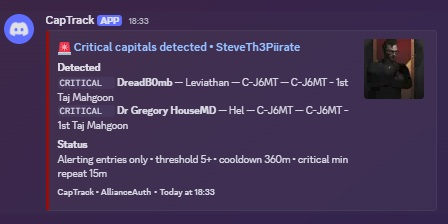
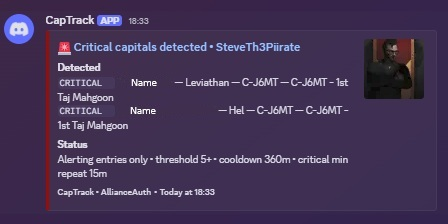
Image update

Changed region(s): [[0.25, 0.4688, 0.5, 0.5312], [0.25, 0.3438, 0.4062, 0.4062]]

diff --git a/README.md b/README.md
@@ -141,7 +141,7 @@ Only **one settings row** is expected.
 
 ### Dashboard — Overview
 
-![Dashboard Overview](images/overview.jpg)
+![Dashboard Overview](https://raw.githubusercontent.com/SteveTh3Piirate/aa-captrack/main/images/overview.jpg)
 
 Displays all tracked capital activity grouped by main character, with clear visual separation between critical, alerting, and informational states.
 
@@ -149,7 +149,7 @@ Displays all tracked capital activity grouped by main character, with clear visu
 
 ### Dashboard — Collapsed / Expanded States
 
-![Dashboard Collapsed](images/collapsed.jpg)
+![Dashboard Collapsed](https://raw.githubusercontent.com/SteveTh3Piirate/aa-captrack/main/images/collapsed.jpg)
 
 Cards can be collapsed to reduce noise. Collapse state can optionally be remembered per user.
 
@@ -157,7 +157,7 @@ Cards can be collapsed to reduce noise. Collapse state can optionally be remembe
 
 ### Dashboard — Snoozed Pilots
 
-![Dashboard Snoozed](images/snoozed.jpg)
+![Dashboard Snoozed](https://raw.githubusercontent.com/SteveTh3Piirate/aa-captrack/main/images/snoozed.jpg)
 
 Pilots can be snoozed individually to suppress alerts and notifications for a configurable duration.
 
@@ -165,7 +165,7 @@ Pilots can be snoozed individually to suppress alerts and notifications for a co
 
 ### Admin — CapTrack Settings
 
-![Admin Settings](images/admin-settings.jpg)
+![Admin Settings](https://raw.githubusercontent.com/SteveTh3Piirate/aa-captrack/main/images/admin-settings.jpg)
 
 All configuration is managed through a single settings entry in the AllianceAuth admin panel.
 
@@ -173,7 +173,7 @@ All configuration is managed through a single settings entry in the AllianceAuth
 
 ### Discord — Critical Alert Example
 
-![Discord Critical Alert](images/discord-critical.jpg)
+![Discord Critical Alert](https://raw.githubusercontent.com/SteveTh3Piirate/aa-captrack/main/images/discord-critical.jpg)
 
 Critical alerts (Titans, Supercarriers) are always sent immediately.
 
